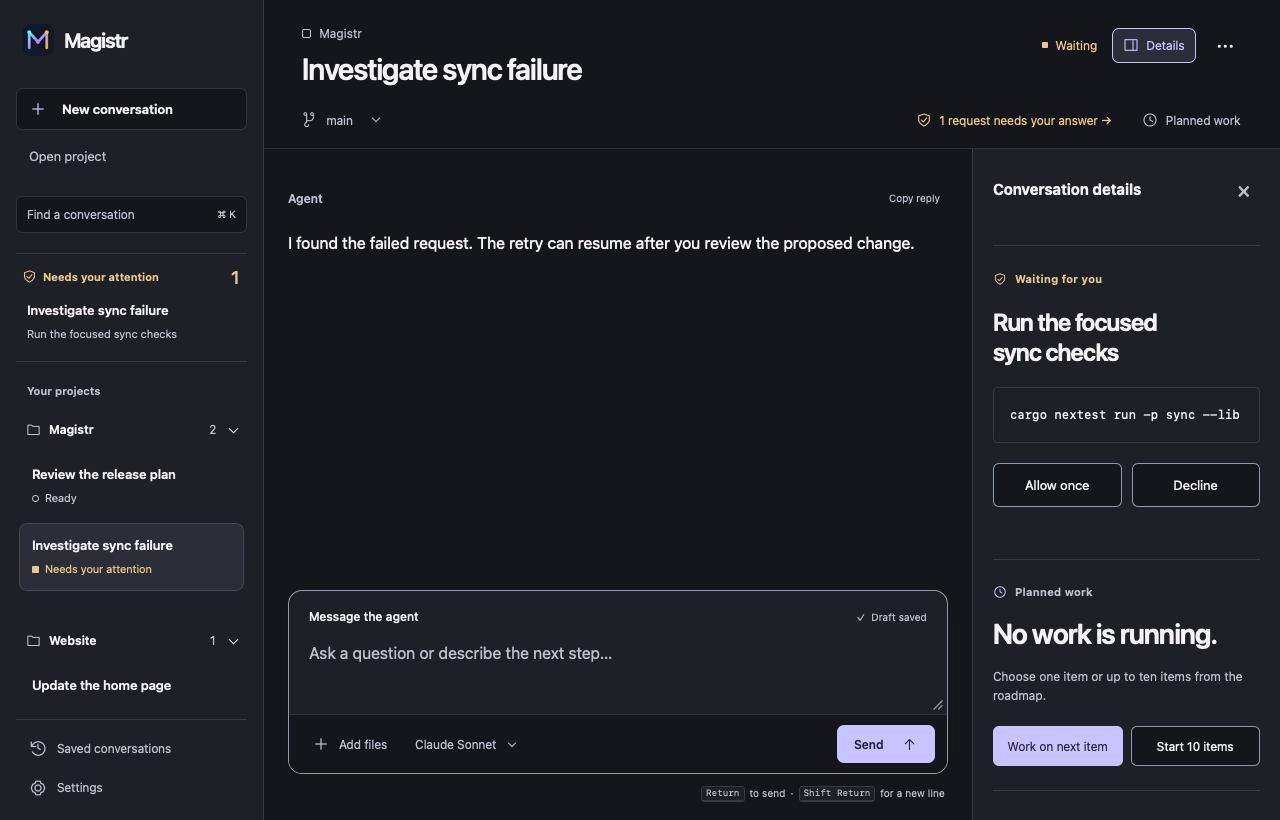
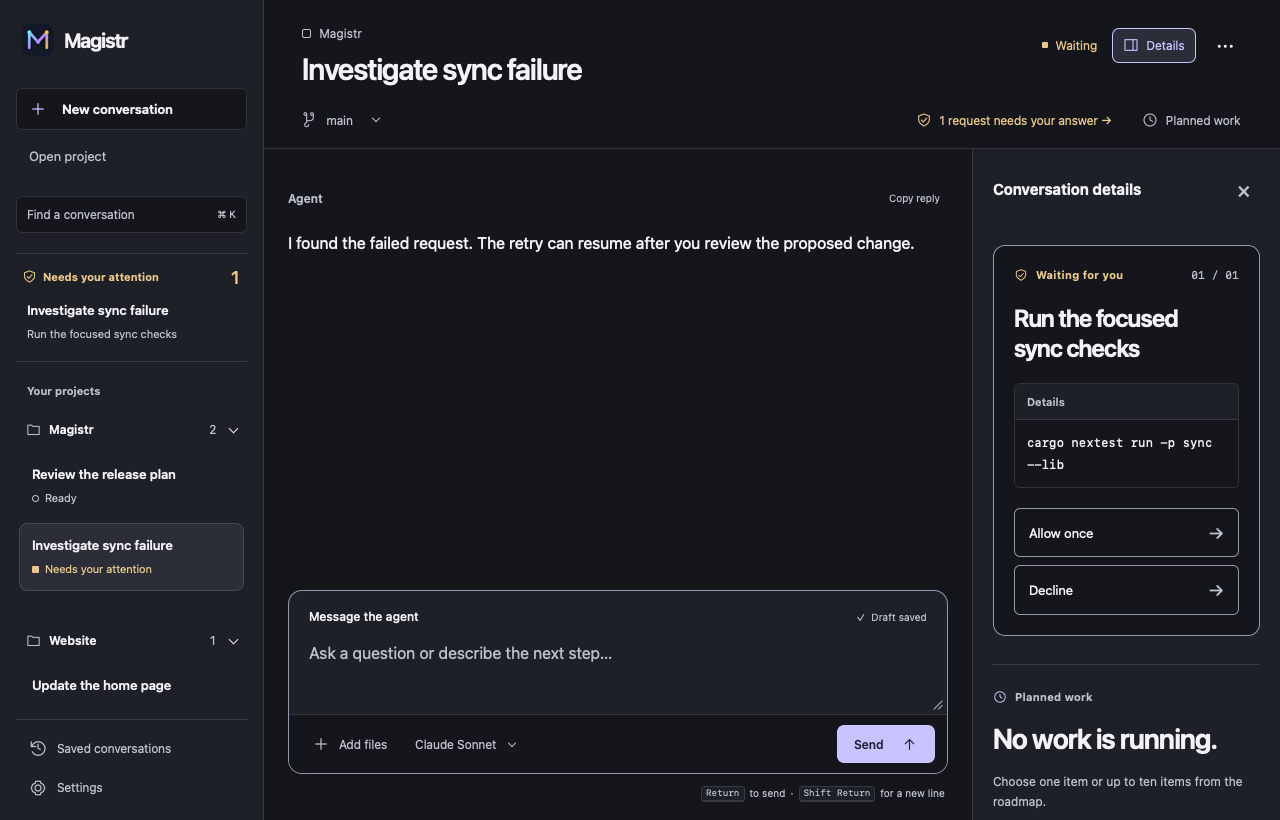
feat(desktop): compose permission requests as focused decision sheets

diff --git a/crates/magistr-desktop/ui/style.css b/crates/magistr-desktop/ui/style.css
@@ -276,13 +276,15 @@ textarea::placeholder,input::placeholder{color:var(--muted);opacity:1}
 @media(forced-colors:active){.attempt-mark[data-current=true]{border:2px solid Highlight;color:Highlight}}
 .work-actions{display:flex;flex-wrap:wrap;gap:8px;padding-top:4px}.work-actions button{flex:1 1 110px;font-size:12px;padding:10px 12px;text-align:center;justify-content:center;min-height:40px}#work-resume,#work-pause{flex-basis:100%}#work-abort{color:var(--danger);background:transparent;border-color:color-mix(in srgb,var(--danger) 35%,transparent)}#work-next,#work-resume{background:var(--button);color:var(--button-text);border-color:var(--button)}
 #requests:empty{display:none}
-.request{display:grid;gap:20px;padding:24px 0;border-top:1px solid var(--separator);margin-bottom:24px}
+.request{display:grid;gap:20px;padding:20px;border:1px solid var(--line);border-radius:12px;background:var(--base);margin-bottom:24px}
+.request-heading{display:flex;align-items:center;justify-content:space-between;gap:12px}.request-heading h2{margin:0}.request-position{color:var(--muted);font:11px var(--font-code);white-space:nowrap}
 .request:last-child{margin-bottom:0}.request h2{color:var(--warning)}.request h2[data-leading-icon]::before{color:var(--warning)}
 .request h3{font-size:24px;font-weight:600;line-height:1.25;letter-spacing:-.035em;margin:0;overflow-wrap:anywhere;max-width:32ch}
-.request-detail{white-space:pre-wrap;overflow-wrap:anywhere;tab-size:2;font:12px/1.8 var(--font-code);padding:16px;border:1px solid var(--separator);border-radius:4px;background:var(--panel);margin:0;max-height:min(32dvh,300px);overflow:auto;scroll-padding:16px}
-.request-actions{display:grid;grid-template-columns:repeat(auto-fit,minmax(112px,1fr));gap:10px}
-.request-actions button{display:flex;align-items:center;justify-content:center;width:100%;padding:11px 14px;min-height:44px;font-size:13px;line-height:1.4;text-align:center;background:var(--base);border-color:var(--line)}
-.request-actions button:hover{background:var(--panel)}.request-actions button:disabled{color:var(--muted)}
+.request-source{margin:0;border:1px solid var(--separator);border-radius:6px;overflow:hidden}.request-source figcaption{padding:9px 12px;background:var(--panel);border-bottom:1px solid var(--separator);color:var(--muted);font-size:11px;font-weight:600}
+.request-detail{white-space:pre-wrap;overflow-wrap:anywhere;tab-size:2;font:12px/1.8 var(--font-code);padding:12px;border:0;border-radius:0;background:var(--base);margin:0;max-height:min(32dvh,300px);overflow:auto;scroll-padding:16px}
+.request-actions{display:grid;grid-template-columns:1fr;gap:8px}
+.request-actions button{display:flex;align-items:center;justify-content:space-between;width:100%;padding:11px 14px;min-height:44px;font-size:13px;line-height:1.4;text-align:center;background:var(--base);border-color:var(--line)}
+.request-choice-arrow{color:var(--muted);font-size:18px;margin-left:12px}.request-actions button:hover{background:var(--panel);border-color:var(--focus)}.request-actions button:disabled{color:var(--muted)}
 .session-actions{display:grid;gap:8px}.session-actions button{font-size:12px}
 .error{padding:10px 14px;color:var(--danger);background:var(--panel);border-bottom:1px solid var(--separator);overflow-wrap:anywhere;font-size:13px}
 .welcome{margin:0 auto;width:min(100%,1320px);padding:32px var(--gutter);overflow:auto}
